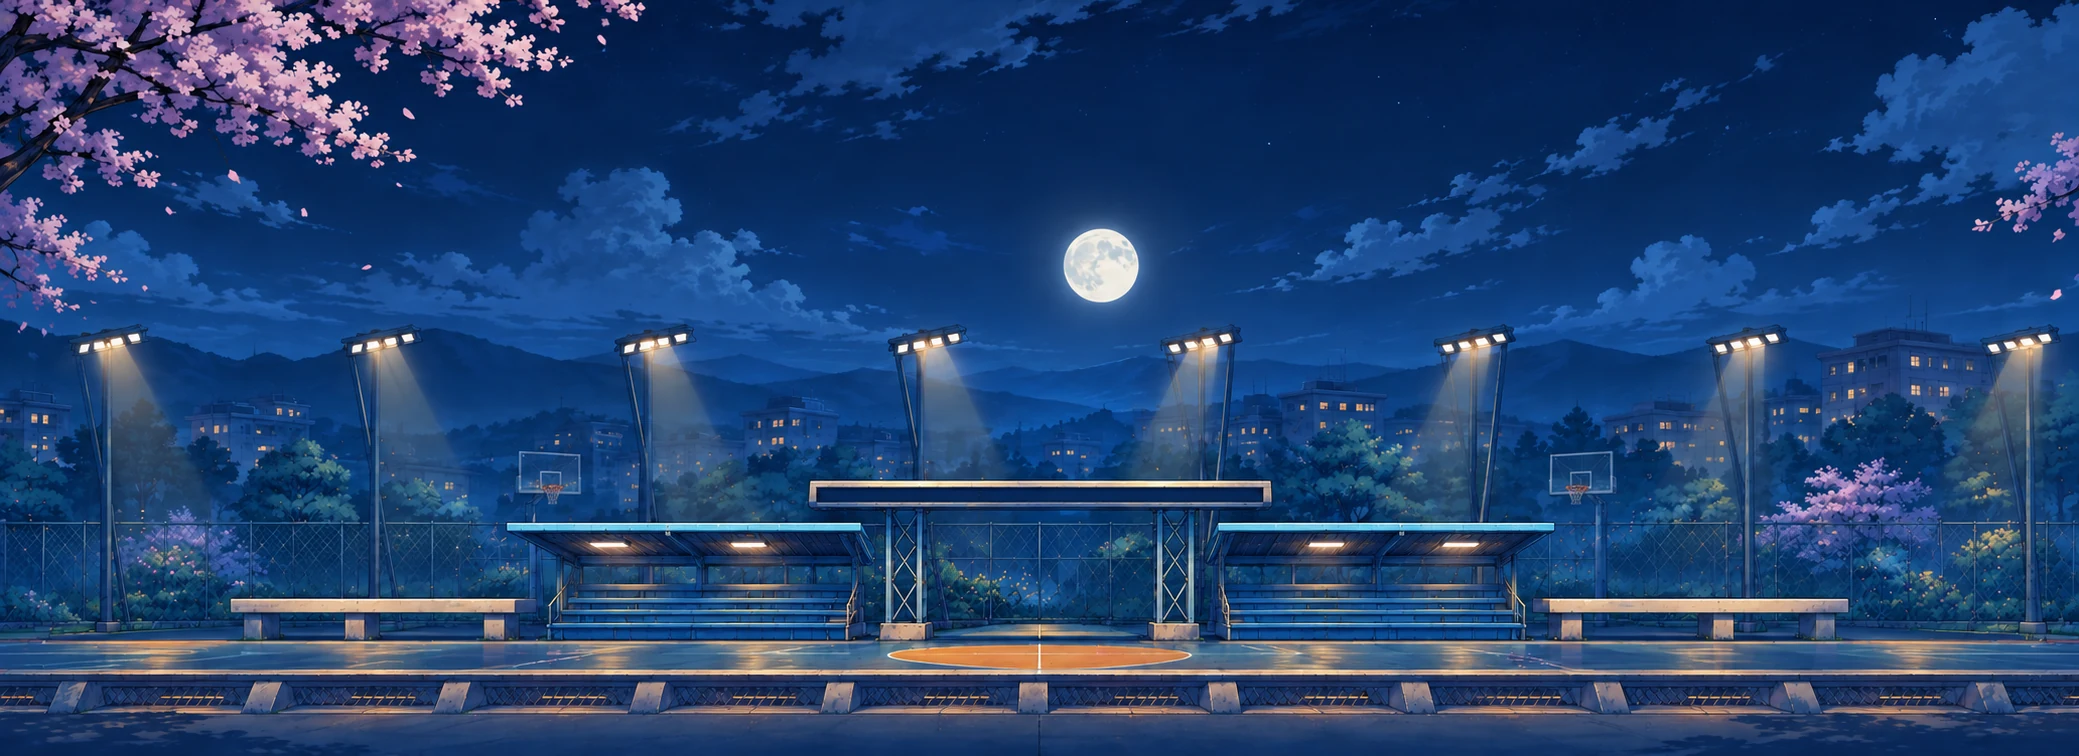
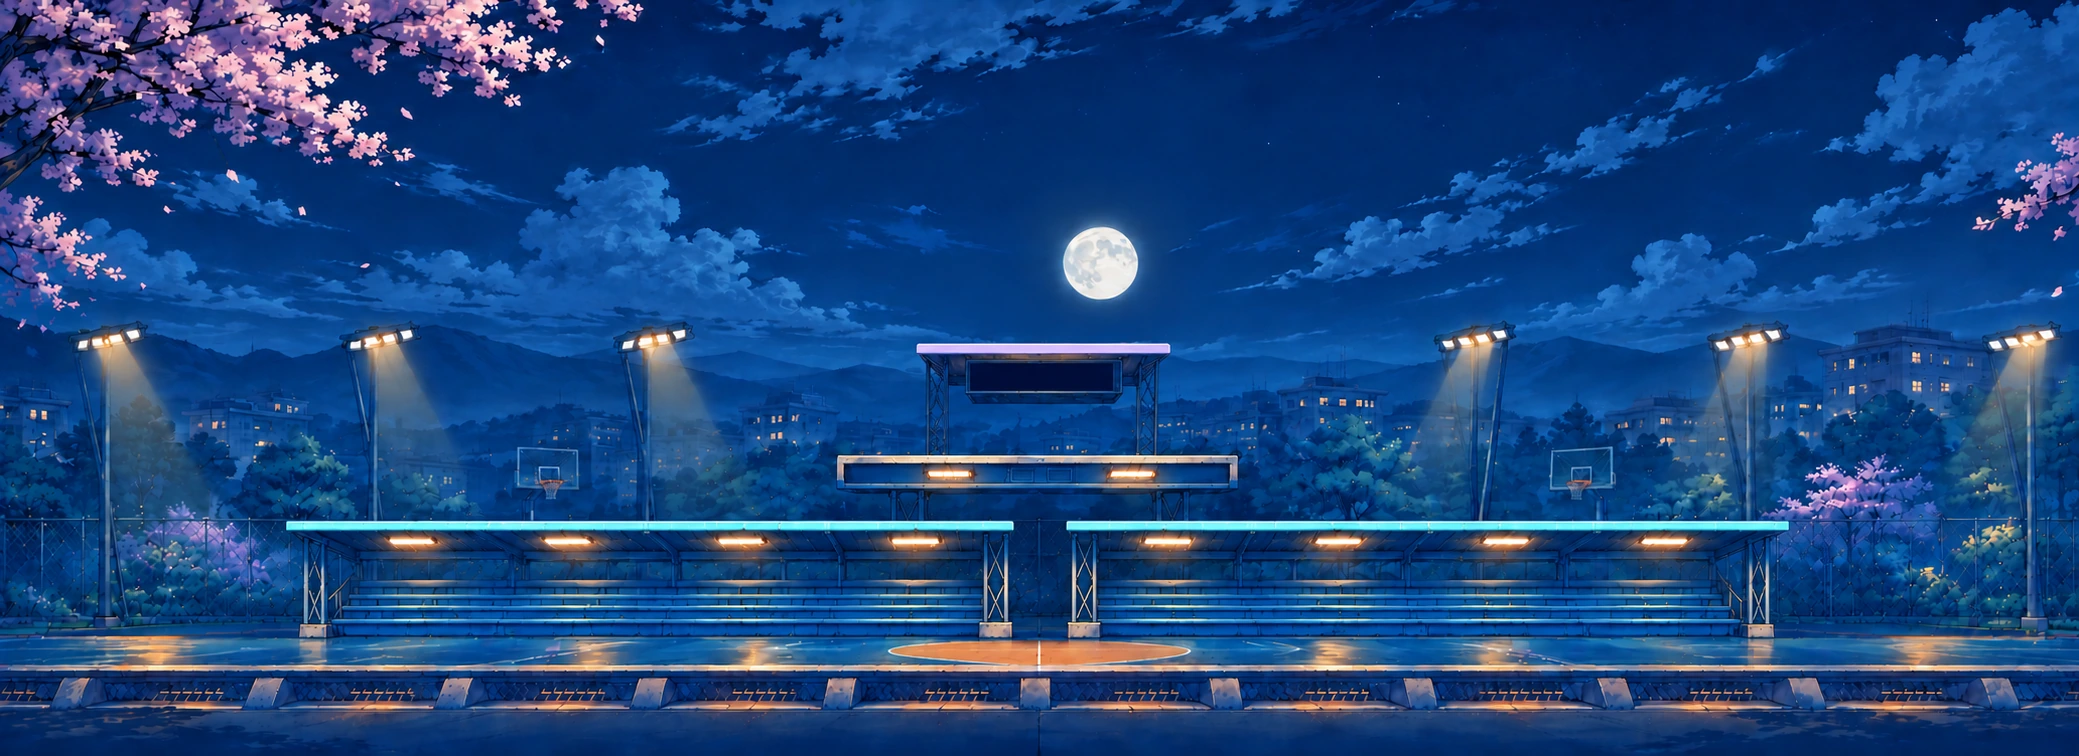
Polish arena routes and make aerial dash independent of double jump

diff --git a/src/core/match.ts b/src/core/match.ts
@@ -65,7 +65,7 @@ function spawn(config: MatchConfig, seat: 0 | 1, round: number): FighterState {
     energy: 0, slow: 0,
     ...(definition.usesTears ? { tearUnits: 60 * TEAR_UNITS_PER_POINT } : {}),
     guard: config.rules.guardMax, guardWait: 0, guardBreak: 0, hitstun: 0, blockstun: 0,
-    push: 0, dash: 0, dashActive: false, airActionUsed: false, guarding: false, attack: null, buffer: [], combo: 0, controlled: 0,
+    push: 0, dash: 0, dashActive: false, airDashUsed: false, guarding: false, attack: null, buffer: [], combo: 0, controlled: 0,
     recovery: null, moving: false
   };
 }
@@ -642,7 +642,7 @@ function updateControl(
   const jump = bound ? undefined : f.buffer.find(command => command.key === 'jump');
   const dropping = Boolean(jump?.down && f.ground && f.ground !== 'floor');
   if (f.ground && jump && (!f.attack || (!dropping && cancels?.includes('jump')))) {
-    f.buffer = f.buffer.filter(item => item.sampledAt !== jump.sampledAt);
+    f.buffer = f.buffer.filter(item => item.sampledAt !== jump.sampledAt || item.key === 'dash');
     f.attack = null;
     delete f.reaction;
     f.ignorePlatform = dropping ? f.ground : null;
@@ -655,12 +655,11 @@ function updateControl(
     return;
   }
   const airborne = !f.ground;
-  if (jump && airborne && !jump.down && !f.dash && !f.airActionUsed && definition.airJump &&
+  if (jump && airborne && !jump.down && !f.dash && f.jumpCount !== 2 && definition.airJump &&
       (!f.attack || cancels?.includes('jump'))) {
-    f.buffer = f.buffer.filter(item => item.sampledAt !== jump.sampledAt);
+    f.buffer = f.buffer.filter(item => item.sampledAt !== jump.sampledAt || item.key === 'dash');
     f.attack = null;
     delete f.reaction;
-    f.airActionUsed = true;
     f.vy = -definition.airJump;
     f.jumpCount=2;f.secondApex=false;
     events.push({ kind: 'air-jump', source: seat, x: f.x, y: f.y });
@@ -668,7 +667,7 @@ function updateControl(
   }
   if (f.attack) return;
   const dash = !bound && f.buffer.find(command => command.key === 'dash');
-  if (dash && !f.dash && (!airborne || (definition.airDash && !f.airActionUsed))) {
+  if (dash && !f.dash && (!airborne || (definition.airDash && !f.airDashUsed))) {
     f.buffer = f.buffer.filter(item => item.sampledAt !== dash.sampledAt);
     const cost = config.rules.dashGuardCost?.[airborne ? 'air' : 'ground'] ?? 0;
     if (f.guard < cost) {
@@ -681,7 +680,7 @@ function updateControl(
       f.facing = dash.x || f.facing;
       f.dash = airborne ? 6 : 8;
       if(definition.id==='frog')startFrogDodge(f,state);
-      if (airborne) f.airActionUsed = true;
+      if (airborne) f.airDashUsed = true;
       f.guarding = false;
       events.push({ kind: 'dash', source: seat, x: f.x, y: f.y, direction: f.facing, ...(f.joAwakened && { heavy: true }) });
       return;
@@ -803,7 +802,7 @@ function motion(
   if (f.ground) return walking;
   const previousY = f.y;
   const fixedDive = Boolean(f.attack && action?.dive && f.attack.frame < action.startup + action.active);
-  if (!fixedDive && !(config.rules.airDashPauseGravity && f.dashActive && f.airActionUsed)) {
+  if (!fixedDive && !(config.rules.airDashPauseGravity && f.dashActive && f.airDashUsed)) {
     f.vy += 1;
     f.y += f.vy;
     if (f.jumpCount === 2 && Math.abs(f.vy) <= 1) f.secondApex = true;
@@ -828,7 +827,7 @@ function motion(
     f.y = platform?.y ?? arena.floor;
     f.vy = 0;
     f.ignorePlatform = null;
-    f.airActionUsed = false;
+    f.airDashUsed = false;
     f.jumpCount=0;f.secondApex=false;
     if (f.launched || f.recovery?.phase === 'fall') landKnockdown(f, seat, config.rules, events, true);
     if (f.reaction?.kind === 'air') f.reaction.landedAt = f.reaction.elapsed;

diff --git a/src/content/arenas.ts b/src/content/arenas.ts
@@ -17,27 +17,25 @@ function stage(description: Description, surfaces: Surface[]): ArenaDefinition {
 
 const dorm = stage({
   id: 'dorm-roof', name: '宿舍楼顶', theme: 'dorm', width: 4160, terrain: '双侧登楼 · 跨院连廊',
-  description: '花房和机房接上同一条连廊，沿连廊可以追过整个中庭。两端都可下穿回地面，东段还可登上水塔。',
+  description: '两翼屋面各自连通，都能跳上跨院连廊。从两翼可逐层下穿，东段还可登上水塔。',
   routes: [['west', 'bridge', 'tank'], ['east', 'bridge', 'tank']]
 }, [
-  ['planter', '西侧树荫花坛', 1, 350, 1080, 116, 'planter'],
-  ['west', '西侧花房顶', 1, 1130, 1840, 122, 'sunroom'],
+  ['west', '西翼花房屋面', 1, 350, 1975, 122, 'sunroom'],
   ['bridge', '跨院连廊', 2, 740, 3420, 244, 'skywalk'],
-  ['east', '东侧机房顶', 1, 2310, 3070, 122, 'penthouse'],
-  ['tank', '天台水塔', 3, 2440, 2890, 362, 'water-tank'],
-  ['greenhouse', '东翼温室顶', 1, 3190, 3995, 116, 'sunroom']
+  ['east', '东翼机房屋面', 1, 2185, 3995, 122, 'penthouse'],
+  ['tank', '天台水塔', 3, 2440, 2890, 362, 'water-tank']
 ]);
 
 const court = stage({
-  id: 'night-court', name: '夜训球场', theme: 'court', width: 4480, terrain: '开阔中圈 · 高位换边',
-  description: '中圈留给地面对打。两翼看台都能跳上计分牌，场边长椅提供额外的低位落脚点。',
-  routes: [['west-stand', 'score-deck'], ['east-stand', 'score-deck']]
+  id: 'night-court', name: '夜训球场', theme: 'court', width: 4480,
+  terrain: '两翼起跳 · 中路短台',
+  description: '出生点原地起跳可逐层上台。中台两端可回到侧台，从正中下穿直落球场。',
+  routes: [['west-stand', 'middle-deck', 'score-deck'], ['east-stand', 'middle-deck', 'score-deck']]
 }, [
-  ['west-bench', '主队场边长椅', 1, 500, 1240, 96, 'bench-seat'],
-  ['west-stand', '主队看台', 1, 1150, 1985, 126, 'bleachers'],
-  ['score-deck', '中央计分牌', 2, 1740, 2740, 254, 'scoreboard'],
-  ['east-stand', '客队看台', 1, 2495, 3330, 126, 'bleachers'],
-  ['east-bench', '客队场边长椅', 1, 3240, 3980, 96, 'bench-seat']
+  ['west-stand', '左侧入口', 1, 620, 2135, 108, 'bleachers'],
+  ['east-stand', '右侧入口', 1, 2345, 3860, 108, 'bleachers'],
+  ['middle-deck', '中央交锋台', 2, 1900, 2580, 216, 'skywalk'],
+  ['score-deck', '中央高台', 3, 2020, 2460, 324, 'scoreboard']
 ]);
 
 const station = stage({
@@ -45,13 +43,13 @@ const station = stage({
   description: '两塔各有一条固定登顶路线。中央升降机从地面附近直达塔冠，左右电缆桥之间也能用普通跳跨过。',
   routes: [['dock-left', 'relay-left', 'upper-left', 'coil-left'], ['dock-right', 'relay-right', 'upper-right', 'coil-right']]
 }, [
-  ['dock-left', '左塔变压器', 1, 820, 1865, 126, 'transformer'],
+  ['dock-left', '左塔变压器', 1, 820, 2038, 126, 'transformer'],
   ['relay-left', '左电缆桥', 2, 960, 2065, 254, 'conduit'],
   ['upper-left', '左塔控制室', 3, 625, 1660, 382, 'control-room'],
   ['coil-left', '西塔线圈冠', 4, 965, 1848, 510, 'inductor'],
   ['service-lift', '中央升降机', 1, 2056, 2296, 62, 'elevator', { axis: 'y', distance: -458, period: 480, dwell: 52, phase: 0 }],
   ['relay-right', '右电缆桥', 2, 2290, 3400, 254, 'conduit'],
-  ['dock-right', '右塔变压器', 1, 2487, 3540, 126, 'transformer'],
+  ['dock-right', '右塔变压器', 1, 2314, 3540, 126, 'transformer'],
   ['upper-right', '右塔控制室', 3, 2680, 3725, 382, 'control-room'],
   ['coil-right', '东塔线圈冠', 4, 2500, 3385, 510, 'inductor']
 ]);

diff --git a/src/web/illustrated-arenas.ts b/src/web/illustrated-arenas.ts
@@ -25,26 +25,23 @@ const scenes = new Map<string, Illustration>([
     { row: 271, rise: 704 },
     { row: 440, rise: 362, lips: [['tank', 1215, 1442, 440]] },
     { row: 507, rise: 244, lips: [['bridge', 360, 1719, 507]] },
-    { row: 572, rise: 122, lips: [
-      ['planter', 178, 537, 573], ['west', 565, 918, 572],
-      ['east', 1153, 1532, 572], ['greenhouse', 1595, 1996, 572]
-    ] },
-    { row: 646, rise: 0 }
+    { row: 573, rise: 122, lips: [['west', 128, 918, 573], ['east', 1153, 1996, 573]] },
+    { row: 645, rise: 0 }
   ])],
   ['night-court', illustration(courtArt, [
-    { row: 275, rise: 710 },
-    { row: 481, rise: 254, lips: [['score-deck', 809, 1272, 481]] },
-    { row: 523, rise: 126, lips: [['west-stand', 507, 861, 523], ['east-stand', 1217, 1554, 523]] },
-    { row: 598, rise: 96, lips: [['west-bench', 230, 536, 598], ['east-bench', 1545, 1849, 598]] },
-    { row: 655, rise: 0 }
+    { row: 223, rise: 574 },
+    { row: 303, rise: 470 },
+    { row: 343, rise: 324, lips: [['score-deck', 917, 1170, 343]] },
+    { row: 455, rise: 216, lips: [['middle-deck', 837, 1237, 455]] },
+    { row: 521, rise: 108, lips: [['west-stand', 286, 1013, 521], ['east-stand', 1067, 1788, 521]] },
+    { row: 665, rise: 0 }
   ])],
   ['harbor', illustration(harborArt, [
     { row: 184, rise: 730 },
     { row: 294, rise: 456 },
     { row: 399, rise: 386, lips: [['west-gallery', 248, 726, 399], ['east-gallery', 1373, 1831, 399]] },
     { row: 473, rise: 256, lips: [['gangway', 381, 1698, 473]] },
-    { row: 536, rise: 128, lips: [['loading', 506, 895, 536], ['east-loading', 1189, 1564, 536]] },
-    { row: 542, rise: 116, lips: [['boat-bow', 153, 565, 542], ['end-boat', 1514, 1940, 542]] },
+    { row: 540, rise: 128, lips: [['loading', 155, 896, 540], ['east-loading', 1189, 1936, 540]] },
     { row: 611, rise: 0 }
   ])],
   ['star-station', illustration(stationArt, [
@@ -53,7 +50,7 @@ const scenes = new Map<string, Illustration>([
     { row: 341, rise: 510, lips: [['coil-left', 447, 882, 341], ['coil-right', 1197, 1631, 341]] },
     { row: 406, rise: 382, lips: [['upper-left', 289, 800, 406], ['upper-right', 1278, 1792, 406]] },
     { row: 475, rise: 254, lips: [['relay-left', 449, 979, 475], ['relay-right', 1100, 1631, 475]] },
-    { row: 547, rise: 126, lips: [['dock-left', 376, 887, 547], ['dock-right', 1194, 1707, 547]] },
+    { row: 547, rise: 126, lips: [['dock-left', 376, 979, 547], ['dock-right', 1100, 1707, 547]] },
     { row: 620, rise: 0 }
   ], { id: 'service-lift', left: 986, right: 1093, inset: 18 })],
   ['broadcast-ring', illustration(broadcastArt, [

diff --git a/src/content/harbor.ts b/src/content/harbor.ts
@@ -10,17 +10,15 @@ export const harbor: ArenaDefinition = {
   id: 'harbor', name: '余晖货港', theme: 'harbor', width: 4352, height: 2448, left: 96, right: 4256, floor,
   spawn: [2009, 2355],
   terrain: '贯通栈桥 · 吊盘捷径',
-  description: '两翼货柜都通往同一条中层栈桥，可以沿桥横向追击。上方检修廊和横移吊盘提供高位路线。',
+  description: '两岸的渡船和货柜屋面各自拉平，可跳上相连的中层栈桥。高位经检修廊和横移吊盘换边。',
   routes: [['loading', 'gangway', 'west-gallery'], ['east-loading', 'gangway', 'east-gallery']],
   artFrame: [],
   platforms: [
-    deck('boat-bow', '渡船顶棚', 1, 330, 1185, 116, 'ferry'),
-    deck('loading', '西侧货柜顶', 1, 1070, 1872, 128, 'container'),
+    deck('loading', '西岸装卸台', 1, 330, 2075, 128, 'container'),
     deck('gangway', '贯通栈桥', 2, 805, 3547, 256, 'catwalk'),
     deck('west-gallery', '西吊架检修廊', 3, 520, 1515, 386, 'gallery'),
-    deck('east-loading', '东侧货柜顶', 1, 2492, 3270, 128, 'trailer'),
+    deck('east-loading', '东岸装卸台', 1, 2277, 4045, 128, 'trailer'),
     deck('east-gallery', '东吊架检修廊', 3, 2885, 3810, 386, 'gallery'),
-    deck('end-boat', '补给船客舱', 1, 3160, 4045, 116, 'ferry'),
     { ...deck('crane', '横移吊盘', 3, 1500, 1850, 384, 'pallet'),
       travel: { distance: 1050, period: 540, dwell: 36, phase: 135 } }
   ]

diff --git a/src/web/renderer.ts b/src/web/renderer.ts
@@ -1319,10 +1319,18 @@ export class Renderer {
       ctx.font = '900 15px system-ui';
       ctx.fillStyle = seatColors[seat];
       ctx.fillText(label, center, markerY + 15);
-      if (!f.ground && !f.launched && !f.recovery && (def.airJump || def.airDash)) {
-        const dot = center + 26;
-        polygon(ctx, f.airActionUsed ? '#535c83' : seatColors[seat],
-          [[dot, markerY + 4], [dot + 6, markerY + 10], [dot, markerY + 16], [dot - 6, markerY + 10]]);
+      if (!f.ground && !f.launched && !f.recovery) {
+        if (def.airJump) {
+          const dot = center + 26;
+          polygon(ctx, f.jumpCount === 2 ? '#535c83' : seatColors[seat],
+            [[dot, markerY + 4], [dot + 5, markerY + 10], [dot, markerY + 16], [dot - 5, markerY + 10]]);
+        }
+        if (def.airDash) {
+          const dot = center + (def.airJump ? 41 : 26);
+          polygon(ctx, f.airDashUsed ? '#535c83' : seatColors[seat],
+            [[dot - 5, markerY + 5], [dot + 1, markerY + 5], [dot + 6, markerY + 10],
+              [dot + 1, markerY + 15], [dot - 5, markerY + 15], [dot, markerY + 10]]);
+        }
       }
     }
     if (config.arena.theme !== 'ring' && (debug || Math.abs(a.x - b.x) > width / zoom * .7)) {

diff --git a/src/web/arena-ink.ts b/src/web/arena-ink.ts
@@ -666,13 +666,13 @@ export function drawInkMechanism(ctx: CanvasRenderingContext2D, arena: ArenaDefi
     if (start.prop !== 'scoreboard') continue;
     const w = start.right - start.left;
     const remaining = state && config && !config.training ? String(Math.ceil(state.remaining / config.rules.ticksPerSecond)).padStart(2, '0') : '– –';
-    const displayY = start.y + (illustrated ? 44 : 56);
+    const displayY = start.y + (illustrated ? 32 : 56);
     ctx.save();
     ctx.textAlign = 'center'; ctx.textBaseline = 'middle';
-    ctx.font = '900 48px ui-monospace, monospace';
+    ctx.font = (illustrated ? '900 34px' : '900 48px') + ' ui-monospace, monospace';
     for (const [i, value] of [String(state?.wins[0] ?? 0), remaining, String(state?.wins[1] ?? 0)].entries()) {
       ctx.fillStyle = [c.rim, c.paper, c.signal][i];
-      ctx.fillText(value, start.left + w * (.23 + i * .27), displayY);
+      ctx.fillText(value, start.left + w * (.26 + i * .24), displayY);
     }
     ctx.restore();
   }

diff --git a/index.html b/index.html
@@ -439,7 +439,7 @@
             <article><h3 class="p1">P1 玩家一</h3><dl id="guide-one"></dl></article>
             <article><h3 class="p2">P2 玩家二</h3><dl id="guide-two"></dl></article>
           </div>
-          <p>单人、训练和联机时也可用 ← / → 控制自己左右移动，同机双人时方向键给 P2。二段跳和空中冲刺每次离地可选一次。角色旁的亮菱形表示还有机会。站在平台上可用下方向＋跳跃逐层下穿。</p>
+          <p>单人、训练和联机时也可用 ← / → 控制自己左右移动，同机双人时方向键给 P2。每次离地可各用一次二段跳和空中冲刺。角色旁的菱形表示二段跳，箭头表示空冲。站在平台上可用下方向＋跳跃逐层下穿。</p>
           <p>按 <kbd>Esc</kbd> 暂停，在暂停菜单打开招式表。自由训练中按 <kbd>H</kbd> 查看判定框和动作数据。</p>
           <div id="guide-routes" class="guide-routes"></div>
         </div>

diff --git a/src/web/cpu.ts b/src/web/cpu.ts
@@ -94,11 +94,11 @@ export function cpuInput(state: MatchState, config: MatchConfig): InputFrame {
   const route = approachPlatform(state, config);
   if (route) return route;
   if (!cpu.ground) {
-    if (!cpu.airActionUsed && airJump && cpu.vy >= -3 && higher > 60 && higher < 131 &&
+    if (cpu.jumpCount !== 2 && airJump && cpu.vy >= -3 && higher > 60 && higher < 131 &&
       distance < 164 && beat % 9 === 2) {
       return { x: direction, y: 0, pressed: ['jump'] };
     }
-    if (airDash && !cpu.airActionUsed && distance > 150 && distance < 340 &&
+    if (airDash && !cpu.airDashUsed && distance > 150 && distance < 340 &&
       Math.abs(higher) < 110 && beat % 9 === 2) {
       return { x: direction, y: 0, pressed: ['dash'] };
     }

diff --git a/src/core/frog-kit.ts b/src/core/frog-kit.ts
@@ -44,7 +44,7 @@ export function warpFrog(state:MatchState,config:MatchConfig,seat:0|1,target:0|1
  f.ground=support?.id??(f.y>=arena.floor?'floor':null);f.vy=0;f.push=0;f.dash=0;f.dashActive=false;
  f.guarding=false;f.moving=false;f.ignorePlatform=null;f.buffer=[];delete f.guardCounterLeft;
  f.facing=f.x===enemy.x?enemy.facing===1?-1:1:f.x<enemy.x?1:-1;
- if(f.ground){f.airActionUsed=false;f.jumpCount=0;f.secondApex=false;}
+ if(f.ground){f.airDashUsed=false;f.jumpCount=0;f.secondApex=false;}
  (f.frogWarps??=[]).push({tick:state.arenaFrame,fromX,fromY,toX:f.x,toY:f.y,powered,kind});
  if(kind==='behind'){
   f.attack={id:'frog-evade',frame:0,connected:true,landed:false};

diff --git a/src/web/game.ts b/src/web/game.ts
@@ -1622,7 +1622,11 @@ function trainingState(seat: Seat) {
   if (fighter.guarding && fighter.guardCounterLeft) return '防反窗口 · ' + fighter.guardCounterLeft + ' 帧';
   if (fighter.guarding) return '防御';
   if (fighter.ground) return '地面可操作';
-  return fighter.airActionUsed ? '空中机动已用' : '空中机动可用';
+  const definition = config.fighters[seat];
+  return [
+    definition.airJump && fighter.jumpCount !== 2 ? '二段跳可用' : '',
+    definition.airDash && !fighter.airDashUsed ? '空冲可用' : ''
+  ].filter(Boolean).join(' · ') || '空中机动已用';
 }
 
 function renderHUD() {

diff --git a/src/core/types.ts b/src/core/types.ts
@@ -373,7 +373,7 @@ export interface FighterState {
   dash: number;
   /** True through the final tick of dash movement, including hitstop snapshots. */
   dashActive?: boolean;
-  airActionUsed: boolean;
+  airDashUsed: boolean;
   guarding: boolean;
   /** Undefined when released, zero when held past the window, positive while armed. */
   guardCounterLeft?: number;

diff --git a/README.md b/README.md
@@ -24,12 +24,12 @@
 | 地图 · 直接进训练 | 可走宽度（游戏单位） | 地面上方落脚面 | 场景和路线 |
 |---|---:|---:|---|
 | [直播擂台](http://127.0.0.1:4182/?practice=broadcast-ring) | 4288 | 0 | 单层特殊图：整条拳台地面贯通，观众、播报屏与应援灯只作背景，适合地面对打、远程追击和长位移。 |
-| [余晖货港](http://127.0.0.1:4182/?practice=harbor) | 4160 | 8 | 两侧货柜各通往中层贯通栈桥和高位检修廊。中层能一路跑到对岸，高位可搭横移吊盘。 |
-| [宿舍楼顶](http://127.0.0.1:4182/?practice=dorm-roof) | 3968 | 6 | 花房、机房和外翼矮台均可接上 2680 单位长的跨院连廊。两端都能逐层回地面，偏东的水塔可退回连廊。 |
-| [夜训球场](http://127.0.0.1:4182/?practice=night-court) | 4288 | 5 | 中圈地面对攻，两翼看台分别接上中央计分牌。计分牌同步显示胜场和倒计时。 |
+| [余晖货港](http://127.0.0.1:4182/?practice=harbor) | 4160 | 6 | 两岸渡船和货柜形成平直的低位装卸台，通过中层栈桥换岸。高位可搭横移吊盘。 |
+| [宿舍楼顶](http://127.0.0.1:4182/?practice=dorm-roof) | 3968 | 4 | 平直的两翼屋面都能接上 2680 单位长的跨院连廊。两侧可逐层下穿，东段可再登水塔。 |
+| [夜训球场](http://127.0.0.1:4182/?practice=night-court) | 4288 | 4 | 两侧出生点原地便可跳上看台，逐层跳到中央交锋台与计分牌。中台两端可换边，从正中下穿直落球场。 |
 | [星电站](http://127.0.0.1:4182/?practice=star-station) | 4160 | 9 | 两塔各有四层固定登高路线。中层电缆桥可横跳换边，中央升降机在地面附近和塔冠之间移动。 |
 
-选图时可以打开「路线图」查看落脚面和登高方向。四张多层图的主要路线都能逐层普通跳，站在两层重叠处按「下＋跳」可落到下一层。[五张地图路线图](docs/arena-routes.png)
+选图时可以打开「路线图」查看落脚面和登高方向。四张多层图的双方出生点都能原地跳上第一层，主要路线可逐层普通跳。站在两层重叠处按「下＋跳」可落到下一层。[五张地图路线图](docs/arena-routes.png)
 
 ## 好友联机
 
@@ -63,7 +63,7 @@
 | 战术大招（一格） | W + O | ↑ + 单引号或小键盘 6 |
 | 代表大招（三格） | O | 单引号或小键盘 6 |
 
-各角色连段由角色包定义：大肥鱼三段尾击、奶蛙掌击、香蕉猫四段和姑姑嘎嘎五段。姑姑嘎嘎和香蕉猫可预输入连续普攻；命中、格挡或打空均按各自接续窗口推进。普通挑空与空中受击会持续失控到落地，但空中仍可被追击；落地后经过倒地和起身，结束后恢复操作。公共倒地与起身合计约 0.8 秒，期间不能移动或出招。前两段也能接挑空。以 P1 为例，按 J 命中、W + J 挑空、K 起跳、J 空中追击。打空或被防住时要等收招。每次离地可在二段跳和空中冲刺之间选一次，落地恢复。
+各角色连段由角色包定义：大肥鱼三段尾击、奶蛙掌击、香蕉猫四段和姑姑嘎嘎五段。姑姑嘎嘎和香蕉猫可预输入连续普攻；命中、格挡或打空均按各自接续窗口推进。普通挑空与空中受击会持续失控到落地，但空中仍可被追击；落地后经过倒地和起身，结束后恢复操作。公共倒地与起身合计约 0.8 秒，期间不能移动或出招。前两段也能接挑空。以 P1 为例，按 J 命中、W + J 挑空、K 起跳、J 空中追击。打空或被防住时要等收招。每次离地可各用一次二段跳和空中冲刺，落地恢复。长按左右方向时按冲刺，角色沿该方向冲出。
 
 从台面下方起跳，在下降经过台沿时落脚，空中可以左右调整。按住下方向再跳跃会从脚下的平台向下掉一层。Esc 暂停，H 显示判定框与台沿。在自由训练中，H 还会显示双方所处的动作阶段、剩余帧数和最近四次按键。选角的方向键和确认键可在「设置」内修改，操作说明会一起更新。同键冲突会提示。全屏受容器限制时，「全屏」会切换到窗口内放大。
 
